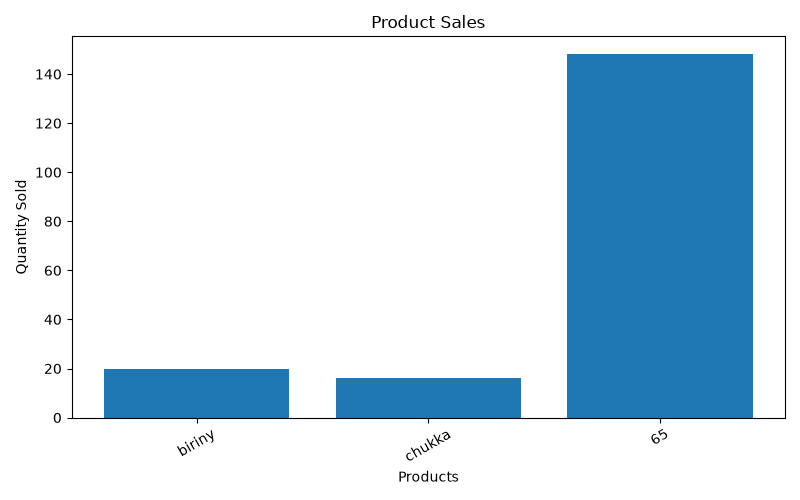
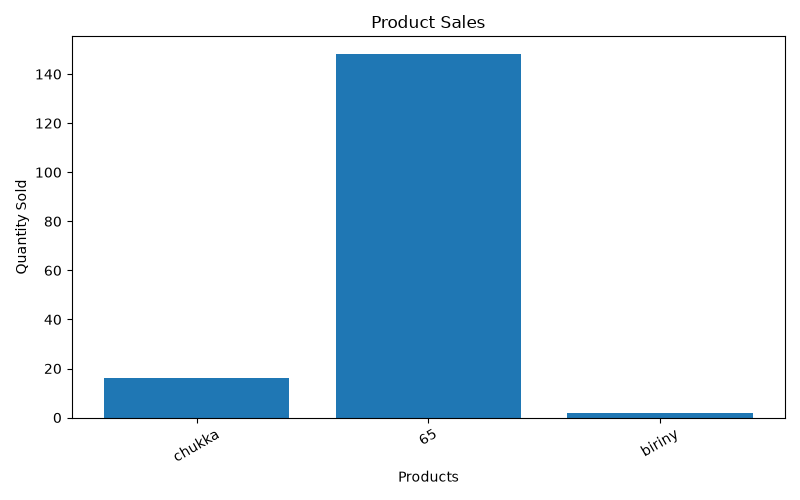
Day 29: Added Monthly Subscription System, Renew Subscription, Dashboard Subscription Status and Expiry Validation

diff --git a/templates/dashboard.html b/templates/dashboard.html
@@ -194,6 +194,18 @@ th{
 
 </div>
 
+<div class="card">
+
+    <h2>📅 Subscription</h2>
+
+    <p><b>Plan:</b> {{ plan }}</p>
+
+    <p><b>Status:</b> {{ status }}</p>
+
+    <p><b>Remaining:</b> {{ remaining_days }} Days</p>
+
+</div>
+
 
 
 
@@ -411,7 +423,51 @@ No Customer Data
 
 </div>
 
+{% if subscription_warning %}
 
+<div style="
+background:#fff3cd;
+color:#856404;
+padding:15px;
+border-radius:10px;
+border:2px solid orange;
+margin-bottom:20px;
+font-size:18px;
+font-weight:bold;
+text-align:center;
+">
+
+🔔 {{ subscription_warning }}
+
+<br><br>
+
+📅 Remaining Days :
+{{ remaining_days }}
+
+</div>
+
+{% endif %}
+
+{% if subscription_warning %}
+
+<div style="text-align:center; margin:20px;">
+
+    <a href="/renew_subscription"
+       style="
+       background:green;
+       color:white;
+       padding:12px 25px;
+       text-decoration:none;
+       border-radius:8px;
+       font-weight:bold;">
+
+       🔄 Renew Subscription
+
+    </a>
+
+</div>
+
+{% endif %}
 
 </body>
 

diff --git a/app.py b/app.py
@@ -5,6 +5,8 @@ from datetime import datetime
 from reportlab.pdfgen import canvas
 from io import BytesIO
 import os
+import matplotlib
+matplotlib.use("Agg")
 import matplotlib.pyplot as plt
 import shutil
 
@@ -53,6 +55,55 @@ class Bill(db.Model):
 
     shop_id = db.Column(db.Integer, db.ForeignKey("shop.id"))    
 
+class Subscription(db.Model):
+    id = db.Column(db.Integer, primary_key=True)
+
+    shop_id = db.Column(
+        db.Integer,
+        db.ForeignKey("shop.id"),
+        nullable=False
+    )
+
+    plan = db.Column(db.String(50), default="Monthly")
+
+    start_date = db.Column(
+        db.Date,
+        default=datetime.utcnow().date
+    )
+
+    expiry_date = db.Column(db.Date)
+
+    status = db.Column(
+        db.String(20),
+        default="Active"
+    )
+
+    reminder_sent = db.Column(
+        db.Boolean,
+        default=False
+    )    
+
+from datetime import datetime
+
+def check_subscription(shop_id):
+
+    subscription = Subscription.query.filter_by(shop_id=shop_id).first()
+
+    if not subscription:
+        return False, "Subscription Not Found"
+
+    today = datetime.now().date()
+
+    if subscription.expiry_date < today:
+        subscription.status = "Expired"
+        db.session.commit()
+        return False, "Expired"
+
+    subscription.status = "Active"
+    db.session.commit()
+
+    return True, "Active"
+
 @app.route("/login", methods=["GET", "POST"])
 def login():
 
@@ -65,12 +116,43 @@ def login():
 
         if shop and check_password_hash(shop.password, password):
 
+            # Subscription Check
+            ok, status = check_subscription(shop.id)
+
+            if not ok:
+                return "❌ Your subscription has expired. Please renew."
+
             session["shop_id"] = shop.id
             return redirect("/")
 
         return "❌ Invalid Username or Password"
 
     return render_template("login.html")
+
+@app.route("/renew_subscription")
+def renew_subscription():
+
+    if "shop_id" not in session:
+        return redirect("/login")
+
+    sub = Subscription.query.filter_by(
+        shop_id=session["shop_id"]
+    ).first()
+
+    if not sub:
+        return "❌ Subscription not found"
+
+    from datetime import timedelta
+
+    today = datetime.now().date()
+
+    sub.start_date = today
+    sub.expiry_date = today + timedelta(days=30)
+    sub.status = "Active"
+
+    db.session.commit()
+
+    return redirect("/dashboard")
 
 @app.route("/get_customer/<mobile>")
 def get_customer(mobile):
@@ -264,6 +346,22 @@ def home():
         product_list=product_list
     )
 
+@app.route("/view_subscriptions")
+def view_subscriptions():
+
+    data = Subscription.query.all()
+
+    for s in data:
+        print(
+            s.shop_id,
+            s.plan,
+            s.start_date,
+            s.expiry_date,
+            s.status
+        )
+
+    return f"Total Subscription : {len(data)}"
+
 @app.route("/logout")
 def logout():
 
@@ -375,25 +473,46 @@ def dashboard():
     if "shop_id" not in session:
         return redirect("/login")
 
-
     shop_id = session["shop_id"]
 
+    # ---------------- Subscription ----------------
+    subscription = Subscription.query.filter_by(
+        shop_id=shop_id
+    ).first()
 
+    remaining_days = None
+    subscription_warning = None
+
+    if subscription:
+        today = datetime.now().date()
+
+        remaining_days = (
+            subscription.expiry_date - today
+        ).days
+
+        if remaining_days == 2:
+            subscription_warning = "⚠ Your subscription expires in 2 days."
+
+        elif remaining_days == 1:
+            subscription_warning = "⚠ Your subscription expires tomorrow."
+
+        elif remaining_days == 0:
+            subscription_warning = "⚠ Your subscription expires today."
+
+        elif remaining_days < 0:
+            subscription_warning = "❌ Your subscription has expired. Please renew."
+
+    # ---------------- Bills ----------------
     bills = Bill.query.filter_by(
         shop_id=shop_id
     ).all()
 
-
-
     total_bills = len(bills)
-
 
     total_revenue = sum(
         bill.total or 0
         for bill in bills
     )
-
-
 
     total_customers = len(
         set(
@@ -403,29 +522,17 @@ def dashboard():
         )
     )
 
+    # Today's Sales (temporary)
+    today_sales = total_revenue
 
-
-    today = datetime.now().date()
-
-
-    today_sales = sum(
-        bill.total or 0
-        for bill in bills
-        if bill.id and 
-        Bill.query.get(bill.id).id
-    )
-
-
-
+    # ---------------- Low Stock ----------------
     low_stock = Product.query.filter(
         Product.shop_id == shop_id,
         Product.stock <= 10
     ).all()
 
-
-
+    # ---------------- Best Products ----------------
     best_products = {}
-
 
     for bill in bills:
 
@@ -440,18 +547,14 @@ def dashboard():
                 (bill.quantity or 0)
             )
 
-
-
     best_products = sorted(
         best_products.items(),
-        key=lambda x:x[1],
+        key=lambda x: x[1],
         reverse=True
     )
 
-
-
+    # ---------------- Top Customers ----------------
     top_customers = {}
-
 
     for bill in bills:
 
@@ -466,27 +569,33 @@ def dashboard():
                 (bill.total or 0)
             )
 
-
-
     top_customers = sorted(
         top_customers.items(),
-        key=lambda x:x[1],
+        key=lambda x: x[1],
         reverse=True
     )[:5]
 
-
-
     return render_template(
-        "dashboard.html",
-        today_sales=today_sales,
-        total_bills=total_bills,
-        total_revenue=total_revenue,
-        total_customers=total_customers,
-        low_stock=low_stock,
-        best_products=best_products,
-        top_customers=top_customers
-    )
 
+    "dashboard.html",
+
+    today_sales=today_sales,
+    total_bills=total_bills,
+    total_revenue=total_revenue,
+    total_customers=total_customers,
+
+    low_stock=low_stock,
+    best_products=best_products,
+    top_customers=top_customers,
+
+    remaining_days=remaining_days,
+    subscription_warning=subscription_warning,
+
+    plan=subscription.plan if subscription else None,
+    status=subscription.status if subscription else None
+
+)
+ 
 @app.route("/add_product", methods=["GET", "POST"])
 def add_product():
     if request.method == "POST":
@@ -846,6 +955,24 @@ def shop():
         db.session.add(shop)
         db.session.commit()
 
+        from datetime import timedelta
+
+        subscription = Subscription.query.filter_by(shop_id=shop.id).first()
+
+        if not subscription:
+            subscription = Subscription(
+                shop_id=shop.id,
+                plan="Monthly",
+                start_date=datetime.now().date(),
+                expiry_date=(datetime.now() + timedelta(days=30)).date(),
+                status="Active"
+            )
+
+            db.session.add(subscription)
+            db.session.commit()
+
+            print("✅ Subscription Created")
+
         return redirect("/shop")
 
     return render_template("shop.html", shop=shop)
@@ -1190,6 +1317,9 @@ def delete_product(id):
 
 
     return redirect("/products")
+
+    with app.app_context():
+       print("Subscriptions:", Subscription.query.all())
 
 if __name__ == "__main__":
     with app.app_context():
